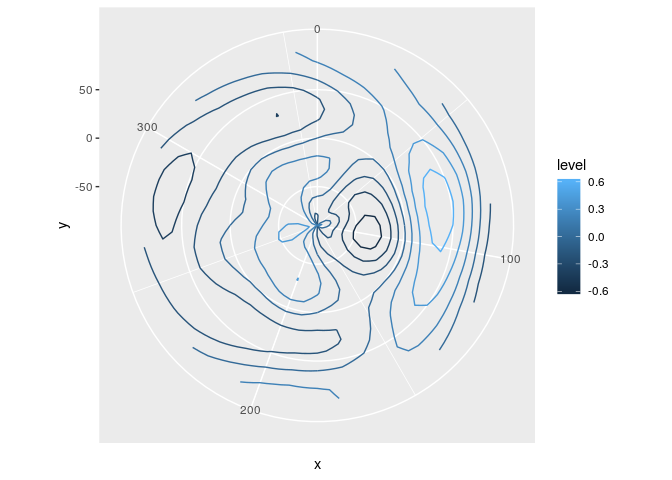
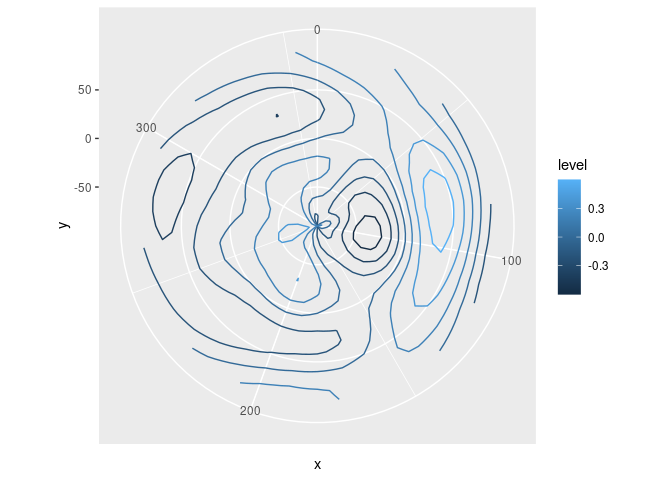
Updates more methods

diff --git a/README.md b/README.md
@@ -7,7 +7,7 @@
 status](https://travis-ci.org/eliocamp/ggperiodic.svg?branch=master)](https://travis-ci.org/eliocamp/ggperiodic)
 [![Coverage
 status](https://codecov.io/gh/eliocamp/ggperiodic/branch/master/graph/badge.svg)](https://codecov.io/github/eliocamp/ggperiodic?branch=master)
-[![CRAN\_Status\_Badge](http://www.r-pkg.org/badges/version/ggperiodic)](https://cran.r-project.org/package=ggperiodic)
+[![CRAN_Status_Badge](http://www.r-pkg.org/badges/version/ggperiodic)](https://cran.r-project.org/package=ggperiodic)
 
 ggperiodic is an attempt to solve the issue of plotting periodic data in
 ggplot2. It automatically augments your data to wrap it around to any
@@ -53,6 +53,11 @@ library(ggplot2)
 ggplot(Z, aes(x, y, z = z, color = ..level..)) +
   geom_contour() +
   coord_polar()
+#> Warning: The dot-dot notation (`..level..`) was deprecated in ggplot2 3.4.0.
+#> ℹ Please use `after_stat(level)` instead.
+#> This warning is displayed once every 8 hours.
+#> Call `lifecycle::last_lifecycle_warnings()` to see where this warning was
+#> generated.
 ```
 
 <img src="man/figures/README-unnamed-chunk-2-1.png" width="70%" />

diff --git a/cran-comments.md b/cran-comments.md
@@ -1,6 +1,9 @@
 
-This release only updates the documentation to conform to the new CRAN HTML5 format. 
+Tested in :
 
+* Local installation Ubuntu 20.04.5 LTS - Linux 5.15.0-67-generic - R version 4.2.1
 
-Cheeers!
-Elio
+## R CMD check results
+
+0 errors | 0 warnings | 0 notes
+
